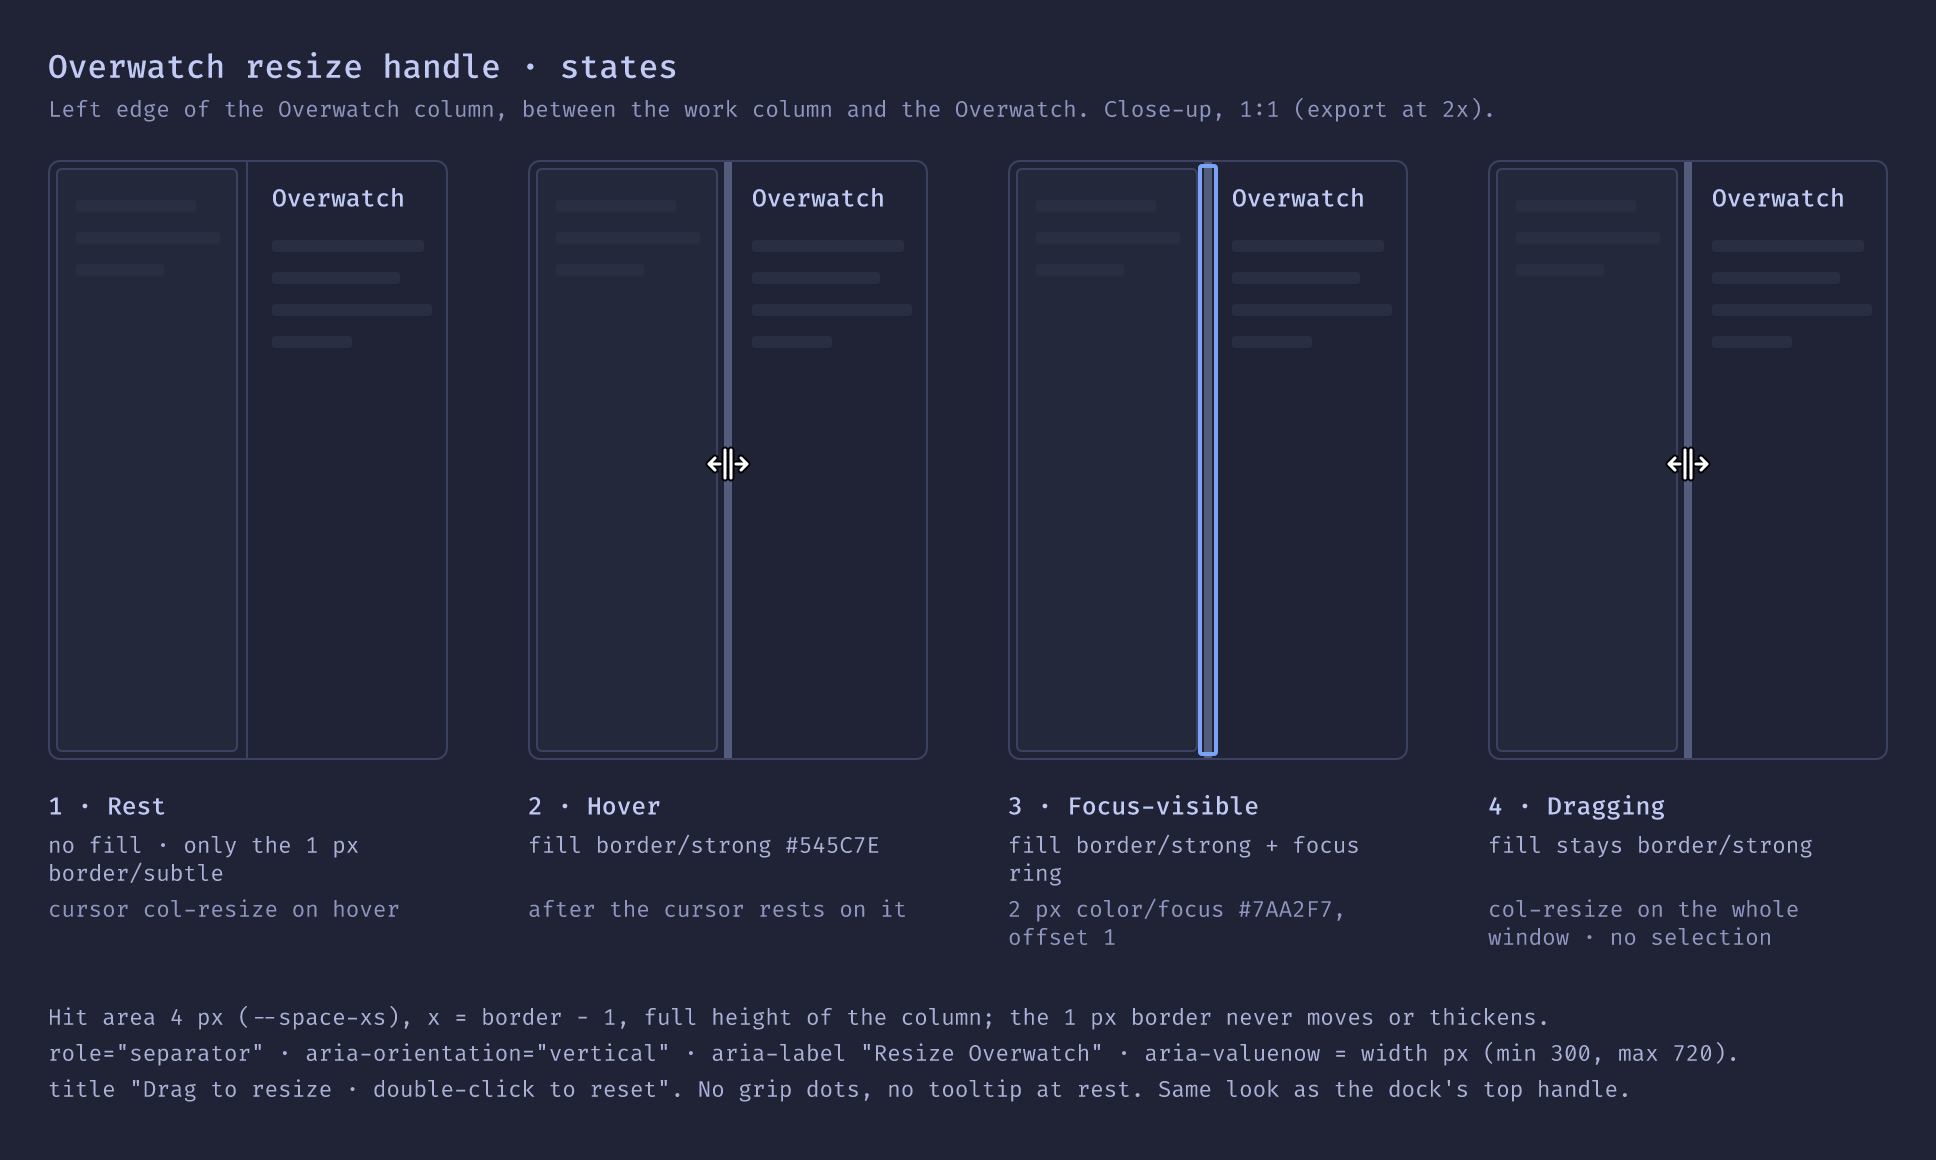
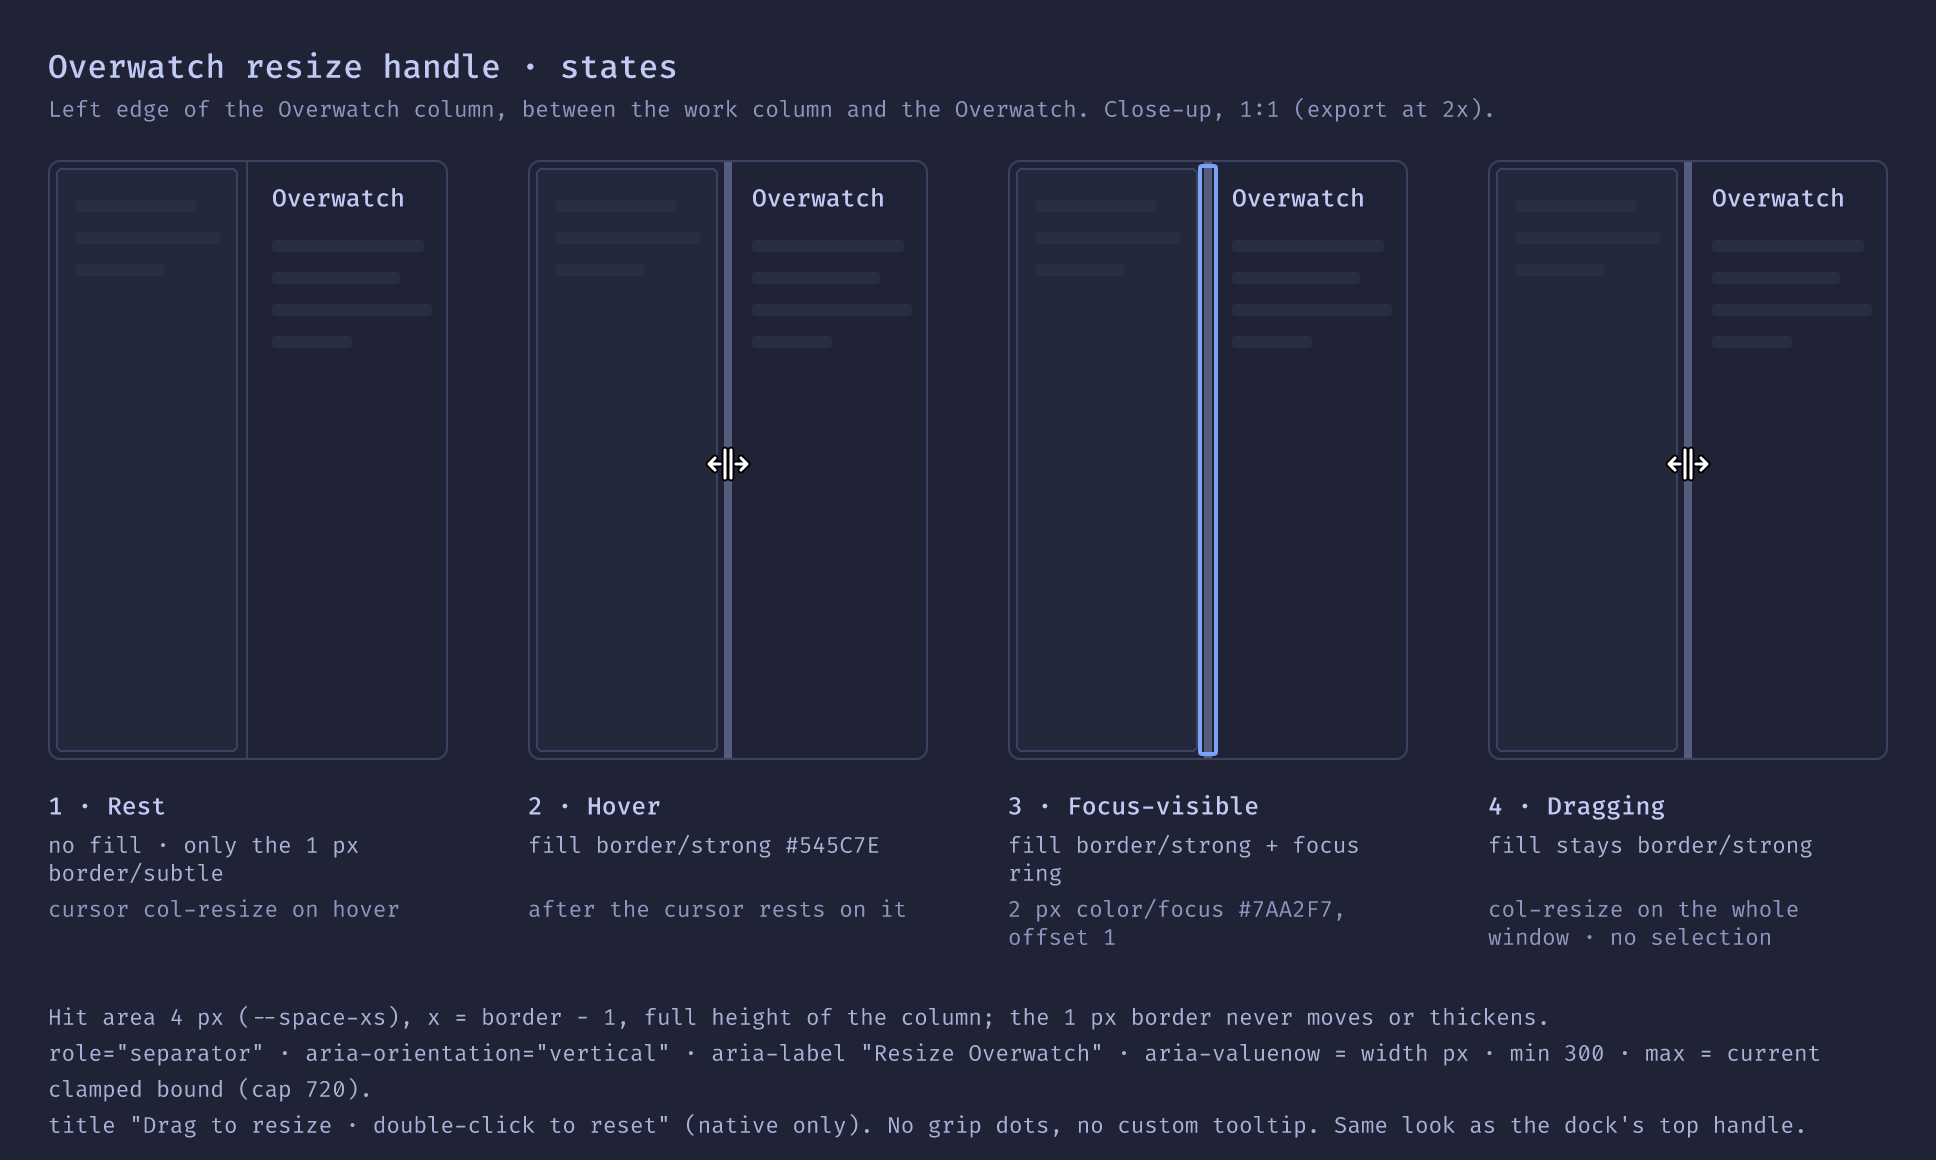
design(allow-overwatch-menu-resizing): review fixes to notes and boards
Border-box widths (912/712/932, max 632 at 1512), handle stacking above the
Inspector overlay, plain :hover, light-theme focus colour, native title only,
aria-valuemax = clamped bound. Boards re-exported: footer copy replaced,
states board aria note corrected.

diff --git a/.orchestrator/features/allow-overwatch-menu-resizing/design/design-notes.md b/.orchestrator/features/allow-overwatch-menu-resizing/design/design-notes.md
@@ -14,26 +14,28 @@ Source: Drive `Orchestrator.figcraft`, page **04.3 Chat column**, row at y = 145
 | Property | Value |
 |---|---|
 | Size | 4 px wide (`--space-xs`), full height of the Overwatch column (from under the title bar / banner to above the status bar) |
-| Position | Straddles the column's existing 1 px left border (`--color-border-subtle` #3b4261): handle `left = border − 1 px`, so 1 px over the work column, 2 px over the Overwatch. The border itself never moves or thickens. |
+| Position | Straddles the column's existing 1 px left border (`--color-border-subtle` #3b4261): handle `left = border − 1 px`, so 1 px over the work column, 2 px over the Overwatch. The border itself never moves or thickens. Stacking: the handle must paint above the Overwatch (`.chat` is `position: relative`) and above the Inspector overlay (`z-index: 20`), so it stays visible, focus ring included, and grabbable while the overlay is open: e.g. `z-index: 21`, outside the `inert` `.chatwrap`. |
 | Rest | No fill (`background: transparent`). Only the 1 px border shows. |
-| Hover | `background: var(--color-border-strong)` (#545c7e dark / #8990b3 light) |
-| Focus-visible | Same fill + the global focus ring: `outline: var(--border-width-focus) solid var(--color-focus)` (2 px, #7aa2f7), `outline-offset: 1px`. That is the app's `:focus-visible` rule, so nothing extra is needed beyond not suppressing it. |
+| Hover | `background: var(--color-border-strong)` (#545c7e dark / #8990b3 light), on plain `:hover` with no delay or transition, like the dock handle |
+| Focus-visible | Same fill + the global focus ring: `outline: var(--border-width-focus) solid var(--color-focus)` (2 px, #7aa2f7 dark / #2e7de9 light), `outline-offset: 1px`. That is the app's `:focus-visible` rule, so nothing extra is needed beyond not suppressing it. |
 | Dragging | Fill stays `--color-border-strong` (kept the same as the dock handle; no accent colour, so the dock needs no change). |
 | Cursor | `col-resize` on the handle; during the drag `col-resize` on the whole window (e.g. on `body` or a full-window drag shield) and `user-select: none`. |
-| Extras | No grip dots, no tooltip, no width read-out. `title="Drag to resize · double-click to reset"`. |
-| A11y | `role="separator"`, `aria-orientation="vertical"`, `aria-label="Resize Overwatch"`, `aria-valuenow` = width in px, `aria-valuemin="300"`, `aria-valuemax` = current max, `tabindex="0"`. |
+| Extras | No grip dots, no custom tooltip, no width read-out; only the native `title="Drag to resize · double-click to reset"`. |
+| A11y | `role="separator"`, `aria-orientation="vertical"`, `aria-label="Resize Overwatch"`, `aria-valuenow` = width in px, `aria-valuemin="300"`, `aria-valuemax` = current max (the clamped bound, not a fixed 720; 720 is only the cap), `tabindex="0"`. |
 
 Same CSS shape as `Dock.svelte`'s `.handle` (`.handle:hover, .handle:focus-visible { background: var(--color-border-strong) }`), plus a `.dragging` class with the same background.
 
 ## Widths drawn
 
+Widths as in the app (`box-sizing: border-box`): the sidebar's / rail's 1 px right border and the Overwatch's 1 px left border sit inside their widths.
+
 | Board | Window | Left | Work column | Overwatch |
 |---|---|---|---|---|
-| default | 1512 | sidebar 240 + 1 border | 910 | **360** (`--size-chat`) |
-| mid-drag | 1512 | sidebar 240 + 1 | 710 (≥ `--size-centre-min` 640) | **560** |
-| min | 1280 | icon rail 48 + 1 | 930 | **300** (min) |
+| default | 1512 | sidebar 240 | 912 | **360** (`--size-chat`) |
+| mid-drag | 1512 | sidebar 240 | 712 (≥ `--size-centre-min` 640) | **560** |
+| min | 1280 | icon rail 48 | 932 | **300** (min) |
 
-At 1512 with the sidebar the max that keeps the work column ≥ 640 is 1512 − 241 − 640 − 1 = 630 px, under the 720 cap.
+At 1512 with the sidebar the max that keeps the work column ≥ 640 is 1512 − 240 − 640 = 632 px, under the 720 cap.
 
 ## Column content at other widths
 
@@ -41,4 +43,4 @@ At 1512 with the sidebar the max that keeps the work column ≥ 640 is 1512 − 
 - At 300 px lines that no longer fit truncate with `…` (collapsed lines, outcomes) and card action rows wrap (Always allow moves to the "Open pane" row). No new layout rule: this is what the existing flex/ellipsis CSS already does at that width.
 - The work column reflows with the drag; in the 560 board the Mission-control queue rows drop their waiting-on chips for lack of room (in the app they simply ellipsize).
 
-Note: the boards are copies of the P4.3 shell boards; the Overwatch header now reads "Overwatch" but the footer still shows the old P4.3 copy. Only the width and the handle are what this design specifies.
+Note: the boards are copies of the P4.3 shell boards, with the header renamed "Overwatch" and the footer set to the input placeholder "Ask the Overwatch…". Only the width and the handle are what this design specifies; the column content is the existing P4.3/P4.4 design.
